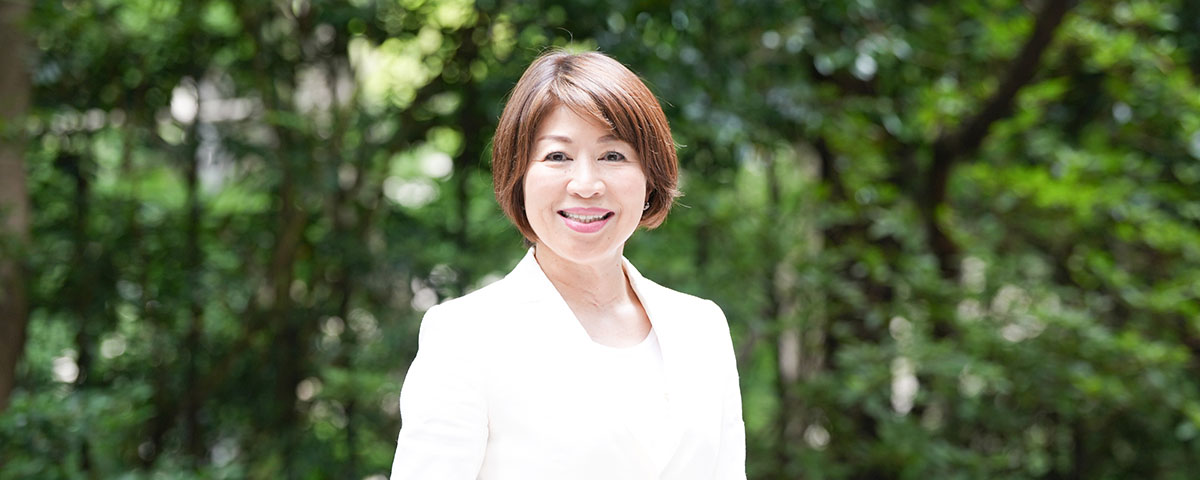
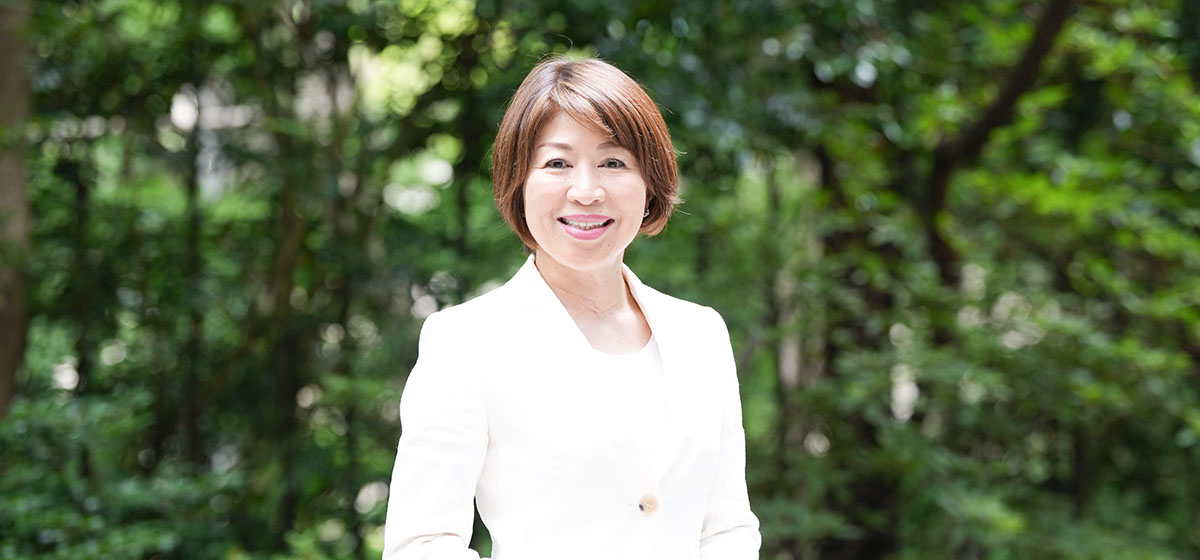
代表メッセージ写真のデスクトップ版クロップを胸元まで含むよう調整
未使用の元画像ファイル(portrait_ceo2.jpg)を削除

diff --git a/company.html b/company.html
@@ -131,7 +131,7 @@ nav.desk{display:flex;align-items:center;gap:4px}
 #message .sh{color:#fff}
 .pres-card{background:#fff;border-radius:20px;box-shadow:0 8px 40px rgba(14,122,196,.22);overflow:hidden;margin-top:40px;max-width:860px;margin-left:auto;margin-right:auto;display:flex;align-items:flex-end}
 .pres-card-body{flex:1;min-width:0;padding:36px 40px;display:flex;flex-direction:column}
-.pres-top-photo{width:100%;height:220px;object-fit:cover;object-position:center 30%;border-radius:14px;margin-bottom:24px;display:block}
+.pres-top-photo{width:100%;height:300px;object-fit:cover;object-position:center 25%;border-radius:14px;margin-bottom:24px;display:block}
 .pres-name-block{display:flex;align-items:center;gap:16px;margin-bottom:28px;padding-bottom:24px;border-bottom:1.5px solid var(--gmid)}
 .pres-name-block h3{font-size:18px;font-weight:900;color:var(--text);margin-bottom:4px}
 .pres-name-block p{font-size:13px;color:var(--sub)}
